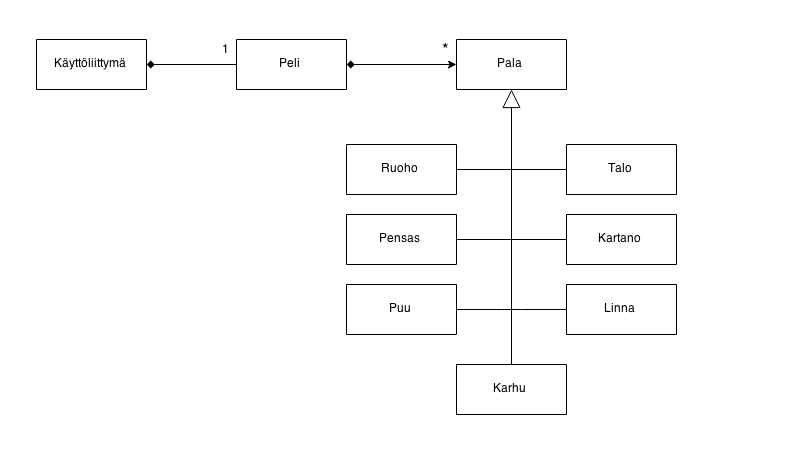
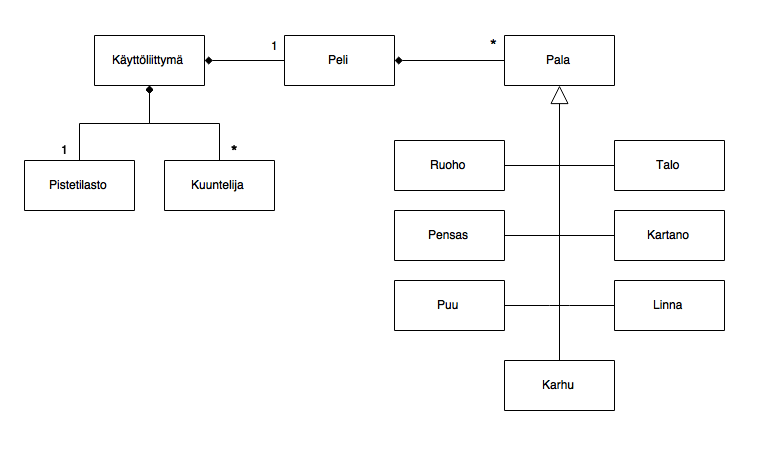
Kayttoliittymaa toteutettu

diff --git a/Triple-Town/src/main/java/tripletown/kayttoliittyma/Kayttoliittyma.java b/Triple-Town/src/main/java/tripletown/kayttoliittyma/Kayttoliittyma.java
@@ -1,17 +1,26 @@
 package tripletown.kayttoliittyma;
 
+import java.awt.BorderLayout;
 import java.awt.Color;
 import java.awt.Dimension;
 import java.awt.GridLayout;
 import javax.swing.ImageIcon;
 import javax.swing.JButton;
 import javax.swing.JFrame;
+import javax.swing.JLabel;
+import javax.swing.JPanel;
 import tripletown.sovellus.Peli;
 import tripletown.sovellus.Pistetilasto;
 
+/**
+ * Luokka piirtää pelin graafisen käyttöliittymän sekä päivittää pelitilanteen.
+ */
 public class Kayttoliittyma implements Runnable {
 
-    JFrame frame;
+    private JFrame frame;
+    private JPanel aloitusPaneeli;
+    private JLabel seuraavaPala;
+    private JLabel pisteet;
     private final Peli peli;
     private final int leveys = 6;
     private final int korkeus = 6;
@@ -19,17 +28,15 @@ public class Kayttoliittyma implements Runnable {
     private int arvottuPala;
     private Pistetilasto tilasto;
     private final String[] kuvat = {
-        "src/main/java/tripletown/kayttoliittyma/kuvat/karhu.png", 
-        "src/main/java/tripletown/kayttoliittyma/kuvat/ruoho.png", 
-        "src/main/java/tripletown/kayttoliittyma/kuvat/pensas.png", 
-        "src/main/java/tripletown/kayttoliittyma/kuvat/puu.png", 
-        "src/main/java/tripletown/kayttoliittyma/kuvat/talo.png", 
-        "src/main/java/tripletown/kayttoliittyma/kuvat/kartano.png", 
-        "src/main/java/tripletown/kayttoliittyma/kuvat/linna.png"};
+        "src/main/resources/kuvat/karhu.png",
+        "src/main/resources/kuvat/ruoho.png",
+        "src/main/resources/kuvat/pensas.png",
+        "src/main/resources/kuvat/puu.png",
+        "src/main/resources/kuvat/talo.png",
+        "src/main/resources/kuvat/kartano.png",
+        "src/main/resources/kuvat/linna.png"};
+    private final String[] palat = {"", "ruoho", "pensas", "puu", "talo", "kartano", "linna"};
 
-    /**
-     * Luokka luo pelin graafisen käyttöliittymän.
-     */
     public Kayttoliittyma() {
         peli = new Peli(leveys, korkeus);
         ruudut = new JButton[leveys][korkeus];
@@ -39,19 +46,22 @@ public class Kayttoliittyma implements Runnable {
     @Override
     public void run() {
         frame = new JFrame("Triple Town");
-        frame.setPreferredSize(new Dimension(400, 400));
+        frame.setPreferredSize(new Dimension(400, 420));
 
         frame.setDefaultCloseOperation(JFrame.EXIT_ON_CLOSE);
-        frame.setLayout(new GridLayout(leveys, korkeus));
+//        frame.setLayout(new GridLayout(leveys, korkeus));
+
+        frame.setLayout(new BorderLayout());
         frame.setResizable(false);
         frame.setLocationRelativeTo(null);
         frame.pack();
 
-        lisaaRuudukko();
+        luoAloitusRuutu();
+//        lisaaRuudukko();
         frame.setVisible(true);
-
-        peli.alustaPelilauta();
-        paivita();
+//
+//        peli.alustaPelilauta();
+//        paivita();
 
     }
 
@@ -59,31 +69,59 @@ public class Kayttoliittyma implements Runnable {
         return frame;
     }
 
+    public void aloitaPeli() {
+        JPanel ylaPalkki = new JPanel();
+        pisteet = new JLabel("Pisteet: " + peli.pistetilanne());
+        
+        seuraavaPala = new JLabel("  Aseta " + getArvottuPala());
+        JButton lopetaNappi = new JButton("Lopeta");
+        lopetaNappi.addActionListener(new LopetaPeliKuuntelija());
+
+        ylaPalkki.add(pisteet);
+        ylaPalkki.add(seuraavaPala);
+        ylaPalkki.add(lopetaNappi);
+
+        JPanel peliruudukko = luoRuudukko();
+
+        frame.remove(aloitusPaneeli);
+        
+        frame.add(ylaPalkki, BorderLayout.NORTH);
+        frame.add(peliruudukko);
+        peli.alustaPelilauta();
+        paivita();
+    }
+
     /**
      * Metodi luo peliruudut ja lisää ne frameen.
      */
-    private void lisaaRuudukko() {
+    private JPanel luoRuudukko() {
+
+        JPanel ruudukko = new JPanel(new GridLayout(leveys, korkeus));
 
         for (int y = 0; y < korkeus; y++) {
             for (int x = 0; x < leveys; x++) {
 
                 JButton ruutu = new JButton();
 
-                ruutu.addActionListener(new Kuuntelija(peli, this, x, y));
+                ruutu.addActionListener(new PeliKuuntelija(peli, this, x, y));
                 ruutu.setBackground(Color.green);
                 ruudut[x][y] = ruutu;
 
-                frame.add(ruutu);
+                ruudukko.add(ruutu);
             }
         }
+
+        return ruudukko;
     }
 
     /**
-     * Metodi päivittää pelilaudan ajan tasalle.
+     * Metodi päivittää pelitilanteen ajan tasalle.
      *
      */
     public void paivita() {
 
+        pisteet.setText("Pisteet: " + peli.pistetilanne());
+        
         peli.liikutaKarhua();
 
         for (int y = 0; y < korkeus; y++) {
@@ -98,7 +136,7 @@ public class Kayttoliittyma implements Runnable {
 
         } else {
             this.arvottuPala = peli.arvoPala();
-            System.out.print(arvottuPala);
+            seuraavaPala.setText(" Aseta " + palat[arvottuPala]);
         }
     }
 
@@ -112,10 +150,9 @@ public class Kayttoliittyma implements Runnable {
 
         if (peli.getRuutu(x, y) != null) {
             int palanumero = peli.getRuutu(x, y).getId();
-            
-                ruudut[x][y].setIcon(new ImageIcon(kuvat[palanumero]));
-            }
-        else {
+
+            ruudut[x][y].setIcon(new ImageIcon(kuvat[palanumero]));
+        } else {
             ruudut[x][y].setIcon(null);
         }
 
@@ -137,6 +174,22 @@ public class Kayttoliittyma implements Runnable {
     private void tallennaPisteet() {
         tilasto = new Pistetilasto();
         tilasto.tallennaPisteet(peli.pistetilanne());
+    }
+
+    private void luoAloitusRuutu() {
+        aloitusPaneeli = new JPanel();
+        JButton pelaaNappi = new JButton("Pelaa");
+        JButton pisteetNappi = new JButton("Pistetilasto");
+        JButton lopetaNappi = new JButton("Lopeta");
+
+        pelaaNappi.addActionListener(new AloitaPeliKuuntelija(this));
+        pisteetNappi.addActionListener(new PistetilastonKuuntelija());
+        lopetaNappi.addActionListener(new LopetaPeliKuuntelija());
+
+        aloitusPaneeli.add(pelaaNappi);
+        aloitusPaneeli.add(pisteetNappi);
+        aloitusPaneeli.add(lopetaNappi);
+        frame.add(aloitusPaneeli);
     }
 
 }

diff --git a/Triple-Town/src/main/java/tripletown/sovellus/Peli.java b/Triple-Town/src/main/java/tripletown/sovellus/Peli.java
@@ -17,8 +17,8 @@ import tripletown.pala.Talo;
 public class Peli {
 
     private final Pala[][] lauta;
-    private int leveys;
-    private int korkeus;
+    private final int leveys;
+    private final int korkeus;
     private int pisteet;
     Random arpoja;
     Karhu karhu;
@@ -44,12 +44,13 @@ public class Peli {
     public void alustaPelilauta() {
 
         for (int i = 0; i < 15; i++) {
-            int x = arpoja.nextInt(6);
-            int y = arpoja.nextInt(6);
+            int x = arpoja.nextInt(this.leveys);
+            int y = arpoja.nextInt(this.korkeus);
             lauta[x][y] = luoPala(arvoPala(), x, y);
             vierekkaistenPalojenHaku(lauta[x][y]);
         }
         lauta[this.karhu.getX()][this.karhu.getY()] = karhu;
+        this.pisteet = 0;
     }
 
     /**
@@ -277,8 +278,8 @@ public class Peli {
      */
     public boolean pelilautaTaynna() {
 
-        for (int y = 0; y < 6; y++) {
-            for (int x = 0; x < 6; x++) {
+        for (int y = 0; y < this.korkeus; y++) {
+            for (int x = 0; x <this.leveys; x++) {
                 if (this.lauta[x][y] == null) {
                     return false;
                 }

diff --git a/Triple-Town/src/main/java/tripletown/sovellus/Pistetilasto.java b/Triple-Town/src/main/java/tripletown/sovellus/Pistetilasto.java
@@ -27,9 +27,8 @@ public class Pistetilasto {
      */
 
     public void tallennaPisteet(int pisteet) {
-        File pistetilasto = new File("src/main/java/tripletown/kayttoliittyma/pistetilasto.txt");
+        File pistetilasto = new File("src/main/resources/pistetilasto.txt");
 
-        
         kaikkiPisteet = lueTiedosto(pistetilasto);
         kaikkiPisteet.add(pisteet);
         
@@ -58,7 +57,7 @@ public class Pistetilasto {
             }
                     
         } catch (FileNotFoundException ex) {
-            System.out.println("Pistetilasto-tiedostoa lukiessa tapahtui virhe.");
+            System.out.println("Pistetilasto -tiedostoa lukiessa tapahtui virhe.");
         }
         
         return kaikkiPisteet;

diff --git a/Triple-Town/src/main/java/tripletown/kayttoliittyma/PeliKuuntelija.java b/Triple-Town/src/main/java/tripletown/kayttoliittyma/PeliKuuntelija.java
@@ -9,7 +9,7 @@ import tripletown.sovellus.Peli;
  * Luokka hoitaa peliruudussa tapahtuvat klikkaukset.
  * 
  */
-public class Kuuntelija implements ActionListener {
+public class PeliKuuntelija implements ActionListener {
 
     private final Peli peli;
     private final Kayttoliittyma gui;
@@ -17,14 +17,13 @@ public class Kuuntelija implements ActionListener {
     private final int y;
     
 
-    public Kuuntelija(Peli peli, Kayttoliittyma gui, int x, int y) {
+    public PeliKuuntelija(Peli peli, Kayttoliittyma gui, int x, int y) {
         this.peli = peli;
         this.gui = gui;
         this.x = x;
         this.y = y;
     }
 
-    
     /**
      * Metodi hoitaa palan asettamisen tyhjään ruutuun.
      * @param ae 

diff --git a/Triple-Town/src/main/java/tripletown/kayttoliittyma/AloitaPeliKuuntelija.java b/Triple-Town/src/main/java/tripletown/kayttoliittyma/AloitaPeliKuuntelija.java
@@ -1,0 +1,21 @@
+
+package tripletown.kayttoliittyma;
+
+import java.awt.event.ActionEvent;
+import java.awt.event.ActionListener;
+
+
+class AloitaPeliKuuntelija implements ActionListener {
+
+    private Kayttoliittyma kl;
+    
+    public AloitaPeliKuuntelija(Kayttoliittyma kl) {
+        this.kl = kl;
+    }
+
+    @Override
+    public void actionPerformed(ActionEvent ae) {
+        kl.aloitaPeli();
+    }
+    
+}

diff --git a/Triple-Town/src/main/java/tripletown/kayttoliittyma/LopetaPeliKuuntelija.java b/Triple-Town/src/main/java/tripletown/kayttoliittyma/LopetaPeliKuuntelija.java
@@ -1,0 +1,19 @@
+
+package tripletown.kayttoliittyma;
+
+import java.awt.event.ActionEvent;
+import java.awt.event.ActionListener;
+
+
+class LopetaPeliKuuntelija implements ActionListener {
+
+    public LopetaPeliKuuntelija()  {
+        
+    }
+
+    @Override
+    public void actionPerformed(ActionEvent ae) {
+        System.exit(0);
+    }
+    
+}

diff --git a/Triple-Town/src/main/java/tripletown/kayttoliittyma/PistetilastonKuuntelija.java b/Triple-Town/src/main/java/tripletown/kayttoliittyma/PistetilastonKuuntelija.java
@@ -1,0 +1,17 @@
+
+package tripletown.kayttoliittyma;
+
+import java.awt.event.ActionEvent;
+import java.awt.event.ActionListener;
+
+class PistetilastonKuuntelija implements ActionListener {
+
+    public PistetilastonKuuntelija() {
+    }
+
+    @Override
+    public void actionPerformed(ActionEvent ae) {
+       
+    }
+    
+}

diff --git a/dokumentointi/tuntikirjanpito.md b/dokumentointi/tuntikirjanpito.md
@@ -19,3 +19,4 @@
 |4.6.  | 3 h	| Koodikatselmoinnissa ehdotettujen muutosten tekemistä, graafisen käyttöliittymän miettimistä ja tutoriaalien etsintää |
 |10.6. | 3,5 h	| Käyttöliittymän toteutusta |
 |11.6. | 2 h	| Käyttöliittymän toteutusta |
+|11.6. | 0,5 h 	| Sekvenssikaavion laatiminen |
